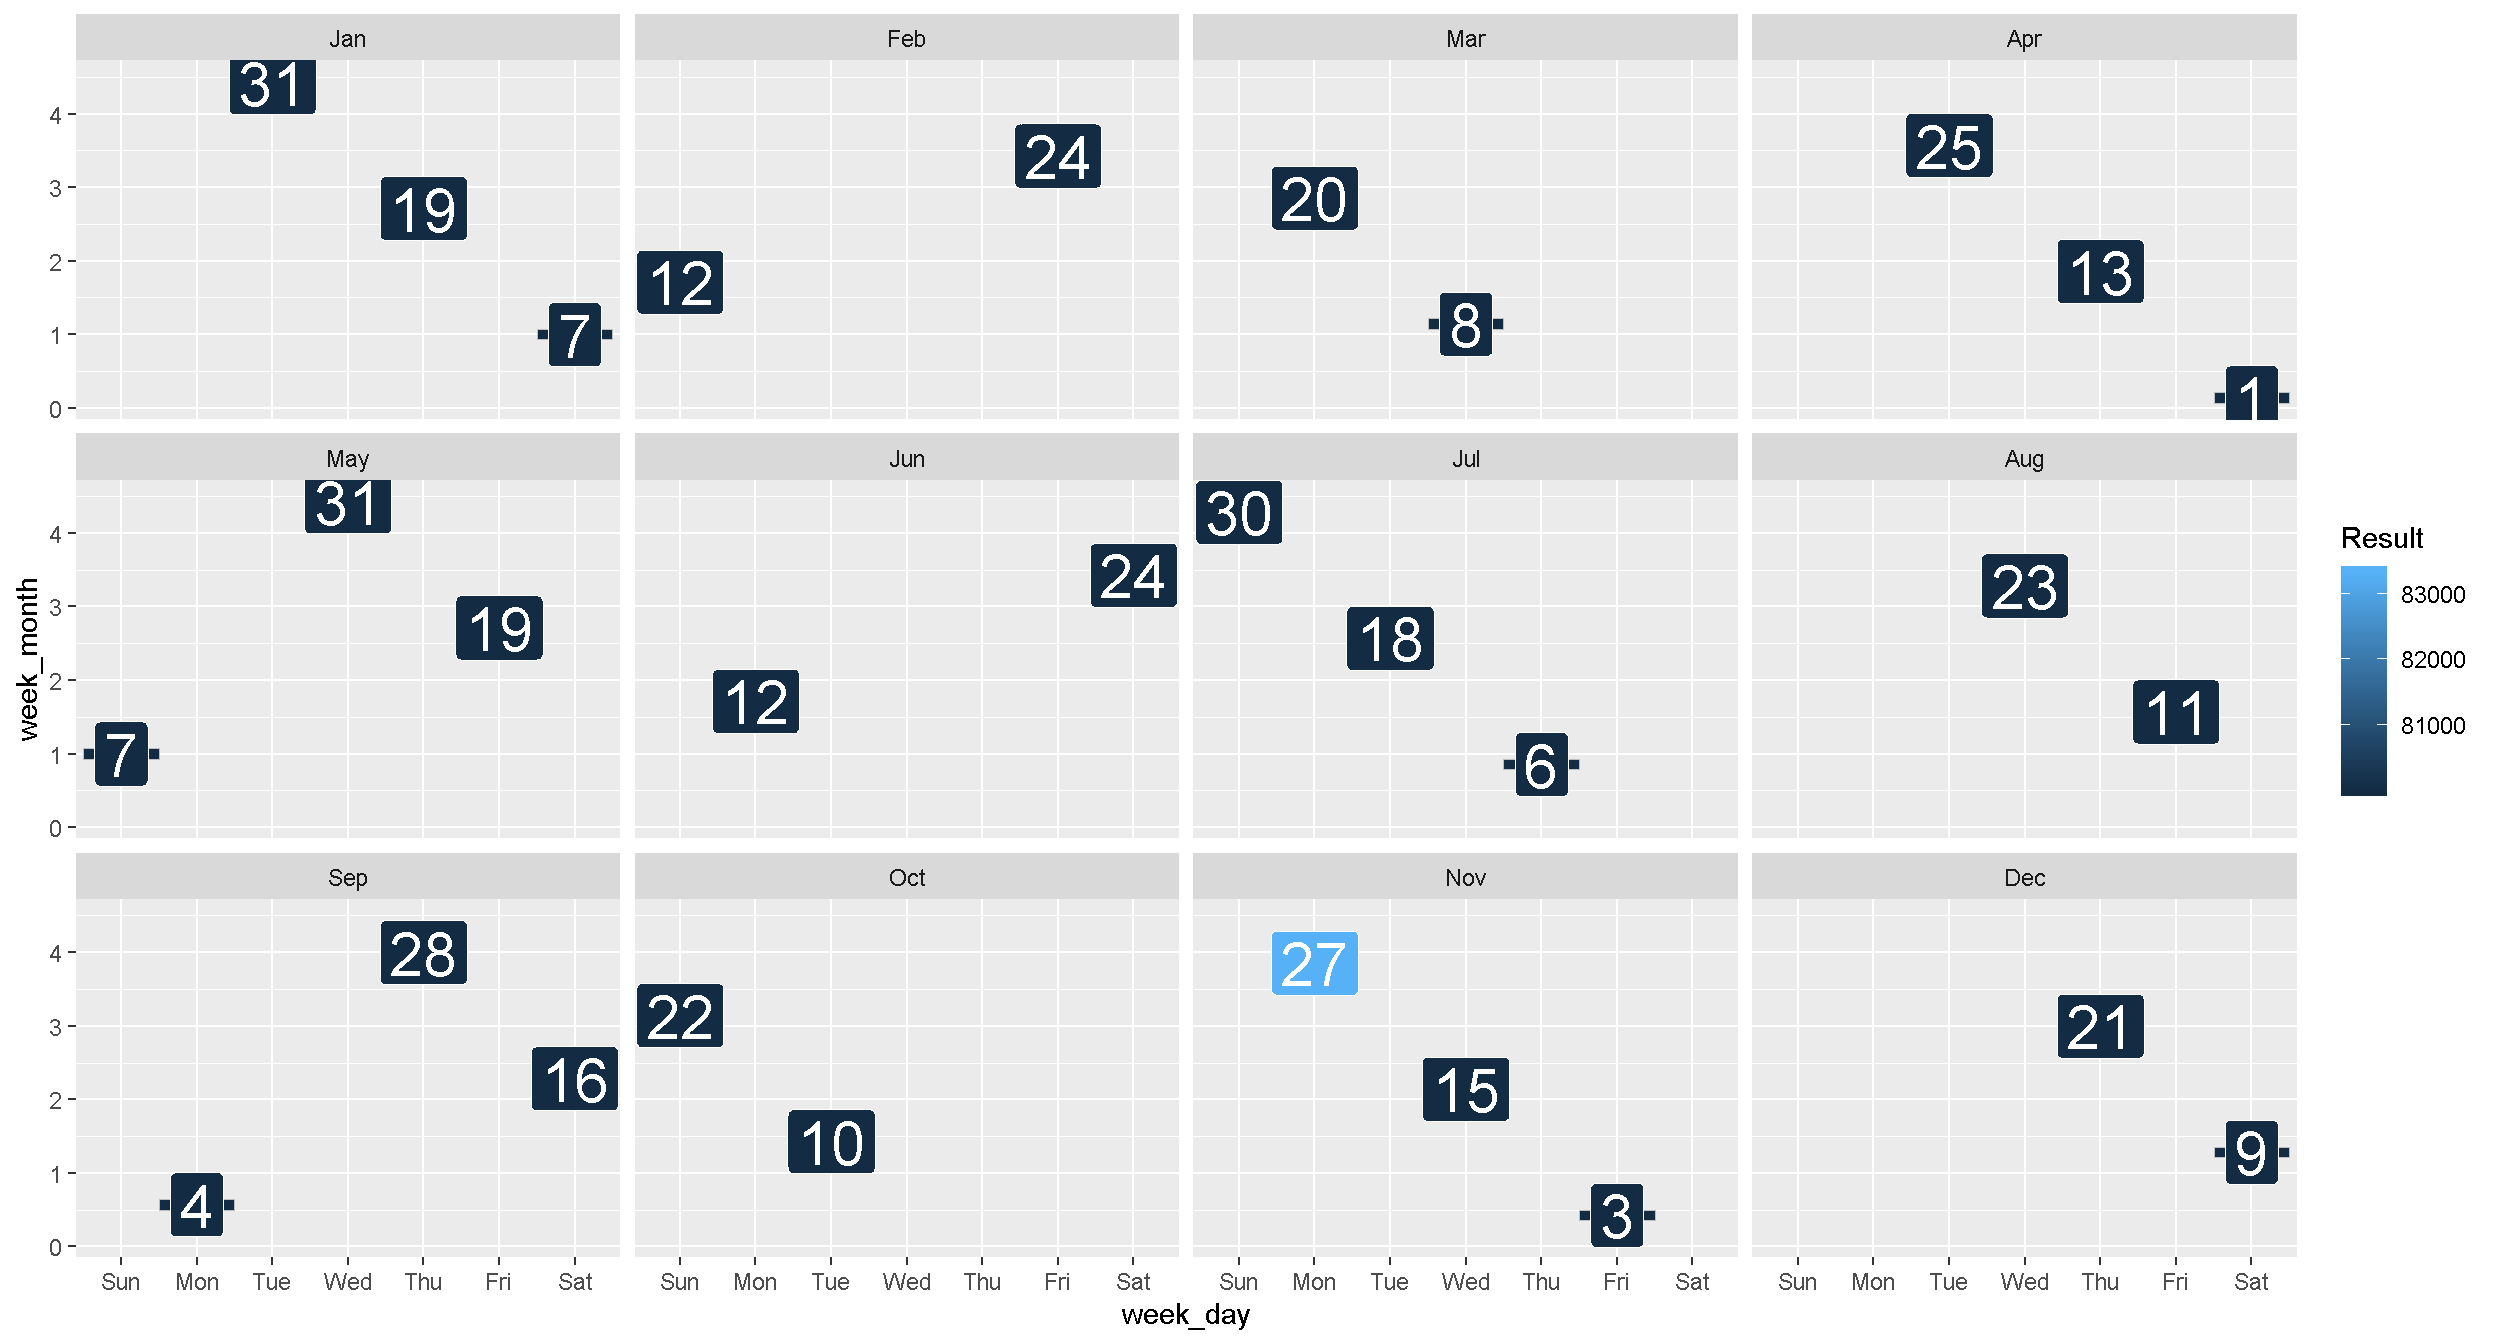
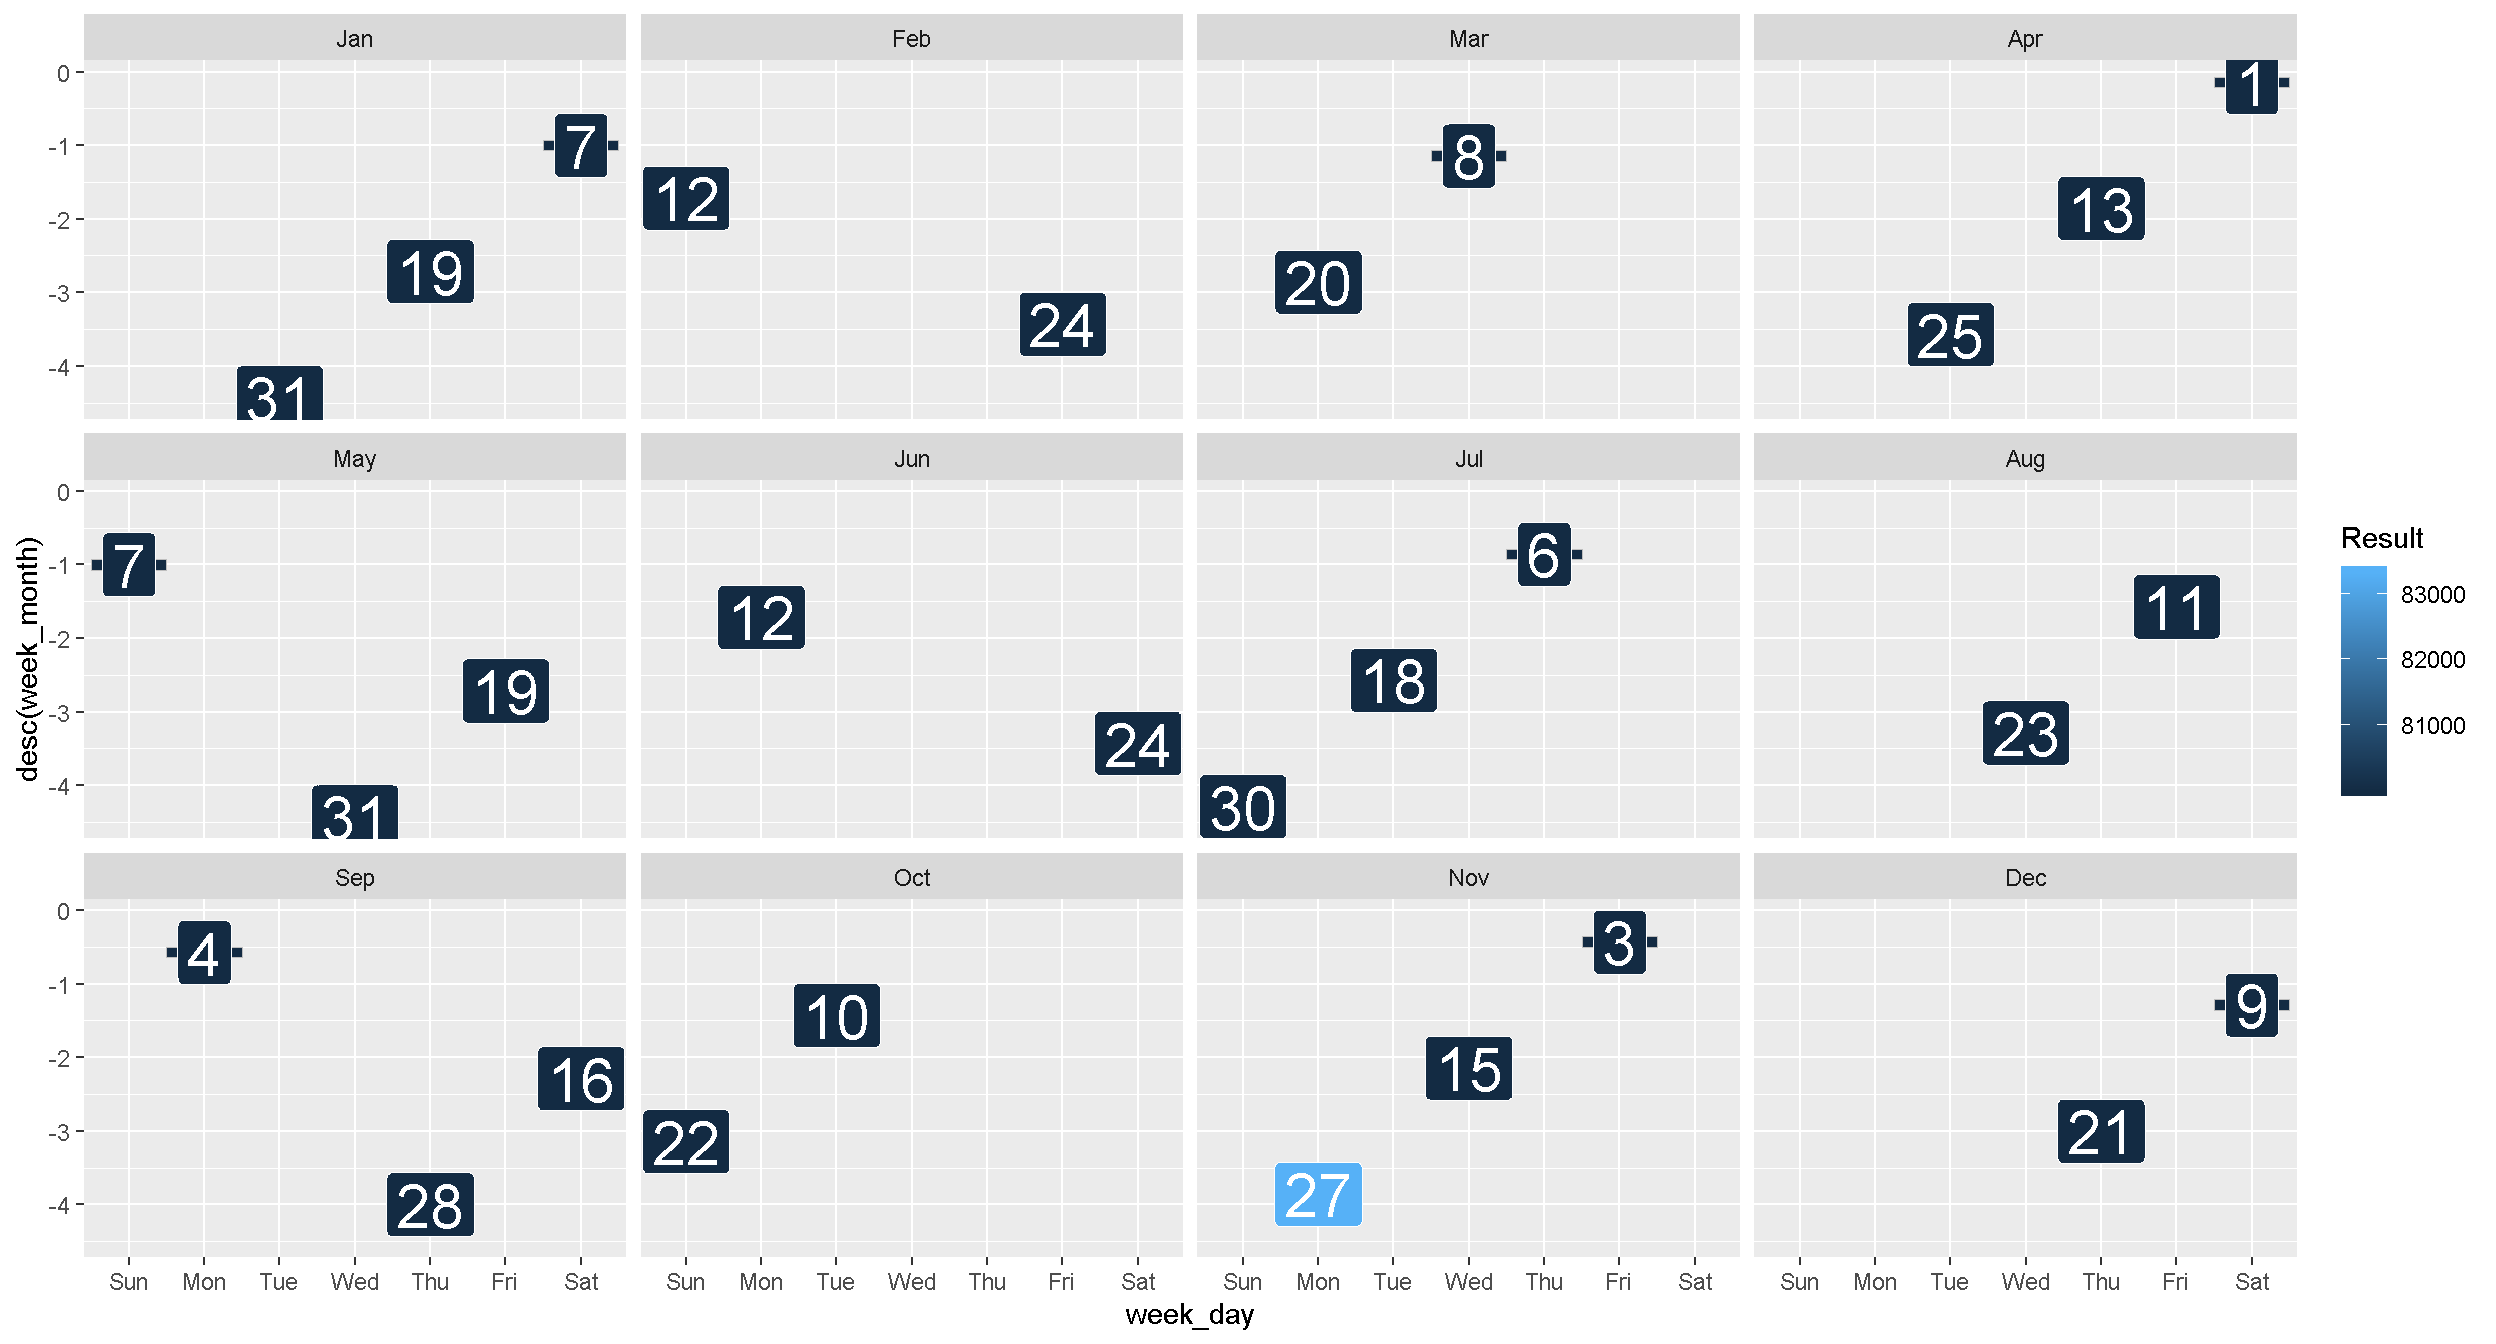
rename pounds

diff --git a/02_Day2.html b/02_Day2.html
@@ -422,33 +422,33 @@ air_data &lt;-<span class="st"> </span><span class="kw">read_csv</span>(<span cl
 <tbody>
 <tr class="odd">
 <td align="left">27-137-7001</td>
-<td align="left">2016-09-08</td>
-<td align="right">9</td>
-<td align="right">72.2</td>
+<td align="left">2018-09-20</td>
+<td align="right">14</td>
+<td align="right">66.8</td>
 </tr>
 <tr class="even">
 <td align="left">27-137-7001</td>
-<td align="left">2016-07-27</td>
-<td align="right">9</td>
+<td align="left">2016-10-18</td>
+<td align="right">6</td>
+<td align="right">47.0</td>
+</tr>
+<tr class="odd">
+<td align="left">27-137-7001</td>
+<td align="left">2016-06-22</td>
+<td align="right">8</td>
 <td align="right">62.6</td>
 </tr>
-<tr class="odd">
-<td align="left">27-137-7554</td>
-<td align="left">2017-07-10</td>
-<td align="right">32</td>
-<td align="right">79.4</td>
-</tr>
 <tr class="even">
-<td align="left">27-137-7001</td>
-<td align="left">2017-08-21</td>
-<td align="right">7</td>
-<td align="right">66.2</td>
+<td align="left">27-137-7554</td>
+<td align="left">2018-08-11</td>
+<td align="right">12</td>
+<td align="right">67.4</td>
 </tr>
 <tr class="odd">
 <td align="left">27-137-7001</td>
-<td align="left">2016-04-20</td>
-<td align="right">22</td>
-<td align="right">66.2</td>
+<td align="left">2017-06-28</td>
+<td align="right">14</td>
+<td align="right">81.2</td>
 </tr>
 </tbody>
 </table>
@@ -1240,8 +1240,10 @@ scrap_pounds &lt;-<span class="st"> </span><span class="kw">arrange</span>(scrap
 
 air_endor &lt;-<span class="st"> </span><span class="kw">read_csv</span>(<span class="st">&quot;data/air_endor.csv&quot;</span>)</code></pre></div>
 <p><br></p>
-<div class="data">
-<p><strong>NOTE:</strong> When your project is open, RStudio sets the working directory to your project folder. When reading in files from a folder outside of your project, you’ll need to use the full file path location. For example: <code>C://Programs/Air_Quality/Ozone_data.csv</code></p>
+<div class="tip">
+<p><strong>NOTE</strong></p>
+<p>When your project is open, RStudio sets the working directory to your project folder. When reading files from a folder outside of your project, you’ll need to use the full file path location.</p>
+<p>For example: <code>X://Programs/Air_Quality/Ozone_data.csv</code></p>
 </div>
 </div>
 </div>
@@ -1413,41 +1415,44 @@ mag_endor &lt;-<span class="st"> </span><span class="kw">mutate</span>(mag_endor
                     <span class="dt">week_month =</span> <span class="kw">day</span>(date)<span class="op">/</span><span class="dv">7</span>, 
                     <span class="dt">month_text =</span> <span class="kw">month</span>(date, <span class="dt">label =</span> <span class="ot">TRUE</span>), 
                     <span class="dt">week       =</span> <span class="kw">week</span>(date))</code></pre></div>
-<div class="sourceCode"><pre class="sourceCode r"><code class="sourceCode r"><span class="kw">ggplot</span>(mag_endor, <span class="kw">aes</span>(<span class="dt">x =</span> week_day, <span class="dt">y =</span> week_month, <span class="dt">fill =</span> Result)) <span class="op">+</span>
+<div class="sourceCode"><pre class="sourceCode r"><code class="sourceCode r"><span class="kw">ggplot</span>(mag_endor, <span class="kw">aes</span>(<span class="dt">x =</span> week_day, <span class="dt">y =</span> <span class="kw">desc</span>(week_month), <span class="dt">fill =</span> Result)) <span class="op">+</span>
 <span class="st">  </span><span class="kw">geom_tile</span>(<span class="dt">color =</span> <span class="st">&quot;gray&quot;</span>) <span class="op">+</span>
-<span class="st">  </span><span class="kw">facet_wrap</span>(<span class="op">~</span>month_text) <span class="op">+</span>
-<span class="st">  </span><span class="kw">geom_label</span>(<span class="kw">aes</span>(<span class="dt">label =</span> <span class="kw">mday</span>(date)), <span class="dt">color =</span> <span class="st">&quot;white&quot;</span>, <span class="dt">size =</span> <span class="dv">8</span>)</code></pre></div>
+<span class="st">  </span><span class="kw">geom_label</span>(<span class="kw">aes</span>(<span class="dt">label =</span> <span class="kw">mday</span>(date)), <span class="dt">color =</span> <span class="st">&quot;white&quot;</span>, <span class="dt">size =</span> <span class="dv">8</span>) <span class="op">+</span>
+<span class="st">  </span><span class="kw">facet_wrap</span>(<span class="op">~</span>month_text)</code></pre></div>
 <p><img src="02_Day2_files/figure-html/calendar_year-1.png" width="1000" /></p>
 <p><br></p>
-<div id="mission-complete" class="section level3 unnumbered">
-<h3>Mission complete!</h3>
-<p>It looks like there really were high magnetic field readings in November of Galactic year 2017. With luck, the Resistance will reward us handsomely for this information.</p>
+<div class="note">
+<h2 id="mission-complete" class="unnumbered">Mission complete!</h2>
+<p>Aha! There really were high magnetic field readings in November. Hopefully, the <em>Resistance</em> will reward us handsomely for this information.</p>
 </div>
 </div>
 </div>
 <div id="the-pipe-operator" class="section level1">
 <h1><span class="header-section-number">10</span> | The pipe operator</h1>
-<div id="i-wish-i-could-type-the-data-frame-name-less-often." class="section level3 unnumbered">
-<h3>…I wish I could type the data frame name less often.</h3>
-<p>You can! You can chain functions together to make your script more streamlined by using the <code>%&gt;%</code>. Also known as the <em>pipe operator</em>.</p>
+<div id="i-wish-i-could-type-the-data-frame-name-less-often." class="section level4 unnumbered">
+<h4><em>…I wish I could type the data frame name less often.</em></h4>
+<p><br></p>
 <div class="figure">
-<img src="https://d21ii91i3y6o6h.cloudfront.net/gallery_images/from_proof/9302/medium/1447173978/rstudio-hex-pipe-dot-psd.png" align="left" style="margin-right:20px;" width="115" />
+<img src="https://d21ii91i3y6o6h.cloudfront.net/gallery_images/from_proof/9302/medium/1447173978/rstudio-hex-pipe-dot-psd.png" style="margin-right: 20px; width: 130px; float: left;" />
 
 </div>
+<p><strong>Now you can!</strong></p>
+<p>We use the <code>%&gt;%</code> to chain functions together and make our scripts more streamlined. We call it the <em>pipe</em>.</p>
+<p>Here are 2 examples of how the <code>%&gt;%</code> operator is helpful.</p>
 <p><br></p>
-<p>Here are two ways the <code>%&gt;%</code> operator is helpful. First, it eliminates the need for nested parentheses.</p>
 <div style="clear: both;">
 
 </div>
+<p><strong><code>#1:</code></strong> It eliminates the need for nested parentheses.</p>
 <p>Say you wanted to take the sum of 3 numbers and then take the log and then round the final result.</p>
 <div class="sourceCode"><pre class="sourceCode r"><code class="sourceCode r"><span class="kw">round</span>(<span class="kw">log</span>(<span class="kw">sum</span>(<span class="kw">c</span>(<span class="dv">10</span>,<span class="dv">20</span>,<span class="dv">30</span>,<span class="dv">40</span>))))</code></pre></div>
 <p><br></p>
-<p>The code doesn’t look much like the words we used to describe it. Let’s see if it’s easier to read when we pipe one function to another.</p>
+<p>The code doesn’t look much like the words we used to describe it. Let’s pipe it so we can read the code from left to right.</p>
 <div class="sourceCode"><pre class="sourceCode r"><code class="sourceCode r"><span class="kw">c</span>(<span class="dv">10</span>,<span class="dv">20</span>,<span class="dv">30</span>,<span class="dv">50</span>) <span class="op">%&gt;%</span><span class="st"> </span><span class="kw">sum</span>() <span class="op">%&gt;%</span><span class="st"> </span><span class="kw">log10</span>() <span class="op">%&gt;%</span><span class="st"> </span><span class="kw">round</span>()</code></pre></div>
 <p><br></p>
-<p>Second, it eliminates the need to and refer to the data frame each time you create a new line to apply a function to your data.</p>
+<p><strong><code>#2:</code></strong> We can combine many processing steps into one cohesive chunk.</p>
 <p><br></p>
-<p>Here’s all of the functions we have applied to the scrap data so far:</p>
+<p>Here are the functions we’ve applied to the scrap data so far:</p>
 <div class="sourceCode"><pre class="sourceCode r"><code class="sourceCode r">scrap &lt;-<span class="st"> </span><span class="kw">read_csv</span>(<span class="st">&quot;https://itep-r.netlify.com/data/starwars_scrap_jakku.csv&quot;</span>)
 
 scrap &lt;-<span class="st"> </span><span class="kw">arrange</span>(scrap, <span class="kw">desc</span>(price_per_pound))
@@ -1470,7 +1475,7 @@ scrap_pounds &lt;-<span class="st"> </span><span class="kw">mutate</span>(scrap,
 <p><br></p>
 <div class="tip">
 <h3 id="exercise-2" class="unnumbered"><i class="fa fa-bicycle" aria-hidden="true" style="color: green"></i> Exercise</h3>
-<p>Make the Endor air data scripts more efficient by using the pipe.</p>
+<p>Similar to above, use the <code>%&gt;%</code> to make the Endor script shorter.</p>
 <div class="sourceCode"><pre class="sourceCode r"><code class="sourceCode r">air_endor &lt;-<span class="st"> </span><span class="kw">read_csv</span>(<span class="st">&quot;https://itep-r.netlify.com/data/air_endor.csv&quot;</span>)
 
 mag_endor &lt;-<span class="st"> </span><span class="kw">filter</span>(air_endor, Analyte <span class="op">==</span><span class="st"> &quot;magnetic_field&quot;</span>)
@@ -1478,12 +1483,11 @@ mag_endor &lt;-<span class="st"> </span><span class="kw">filter</span>(air_endor
 mag_endor &lt;-<span class="st"> </span><span class="kw">mutate</span>(mag_endor, <span class="dt">date =</span> <span class="kw">mdy</span>(Start_Run_Date))
 
 mag_endor &lt;-<span class="st"> </span><span class="kw">filter</span>(mag_endor, <span class="kw">year</span>(date) <span class="op">==</span><span class="st"> &quot;2017&quot;</span>)</code></pre></div>
-<p><br></p>
 </div>
 </div>
 </div>
-<div id="return-to-homebase" class="section level1 unnumbered">
-<h1><i class="fa fa-rocket" aria-hidden="true"></i> Return to <a href="index.html">Homebase</a></h1>
+<div id="go-to-day-3" class="section level1 unnumbered">
+<h1><i class="fa fa-rocket" aria-hidden="true"></i> Go to <a href="03_Day3.html">Day 3</a></h1>
 <p><br></p>
 </div>
 

diff --git a/css/camp_style.css b/css/camp_style.css
@@ -6,6 +6,11 @@ hr {
   margin-bottom: 24px;
 }
 
+2-line {
+  margin-top: -26px;
+  margin-bottom: 20px;
+}
+
 .title {
   font-size: 50px !important;
   margin-top: 22px;
